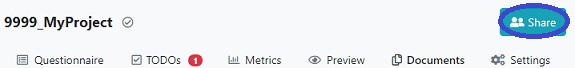
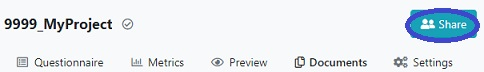
Update of SMS Checklist to DSW 2.12 functionality

Changed region(s): [[0.031, 0.7647, 0.9607, 1.0], [0.8368, 0.0294, 0.9917, 0.6176], [0.0, 0.2353, 0.2789, 0.4706]]

diff --git a/demo-sms-checklist/index.html b/demo-sms-checklist/index.html
@@ -97,15 +97,26 @@
                     shift between different views of the current project.
                     <ul>
                       <li><code>Questionnaire</code> is where you answer the questions </li>
-                      <li><code>TODOs</code> show questions in need for actions</li>
                       <li><code>Metrics</code> show statistics of questions answered (not applicable)</li>
-                      <li><code>Preview</code> display the output document (not applicable)</li>
+                      <li><code>Preview</code> display the output document</li>
                       <li><code>Documents</code> is where you create and download output document</li>
                       <li><code>Settings</code> is where you select format for the output document</li>
                     </ul>
                   </li>
+                  <li>Directly under the navigation bar is a <b>feature bar</b> with:</li>
+                  <ul>
+                    <li><code>View</code> show or hide tags, phases, and/or authors under questions</li>
+                    <li><code>TODOs</code> show questions in need for actions</li>
+                    <li><code>Version history</code> browse history</li>
+                    <li><code>Zen mode</code> show or hide left menu and navigation bar</li>
+                  </ul>
+                  <p><i>Note: This guide will only go through the TODO functionality, for a guide on
+                    the other features please see <a href="../dsw_instructions/useful_tricks.html"><b>Useful 
+                      tips and tricks</b></a>.
+                  </i></p>
+
                   <li>Next to the left-hand menu, there is a <b>Phase & Chapters</b> overview, where you can
-                    change phases (not applicable, only use 'Before Submitting the Proposal'), see the chapters
+                    change phases (not applicable, only use <code>Before Submitting the Proposal</code>), see the chapters
                     and how many questions need to be answered. This number will be reduced while answering, and
                     when all questions are answered a tick will appear instead (see for example the chapter
                     'Phase 2 checklist' which is ticked already for this phase).</li>
@@ -140,16 +151,16 @@
                 The tool has a TODO function, which lets you mark questions where an action is necessary. This is
                 useful (and encouraged) e.g. if you need to collect an answer from a collaborator, or if you
                 want to think about the answer for a while and get back to it later.
+                <h4>Example</h4>
                 <ul>
-                  <lh><b>Example</b></lh>
                   <li>Click on <code>Phase 1 checklist</code> in the Chapters overview menu
                     and scroll down to the question <code>2. Is a DMP available for this project?</code></li>
                     <br><img src="./img/todo.jpg" alt="todo_image"><br><br>
                   <li>Hover on the <code>+</code> sign next to this question, and then click on the
                     appearing <code>+ Add TODO</code>.</li>
-                  <li>Notice that you now have 1 TODOs in the navigation bar at the top of the page. If
+                  <li>Notice that you now have 1 TODOs in the features bar at the top of the page. If
                     you click on it you will see a list with the question(s) which need an action. The list is
-                    linked, so clicking on one of the items in the list will lead you directly to it.
+                    linked, so clicking on an item in the list will lead you directly to it.
                   </li>
                   <br><img src="./img/todo-navigation.jpg" alt="todo_navigation_image"><br><br>
                   <li>To remove a TODO, just click on the yellow <code>TODO X</code>.</li>
